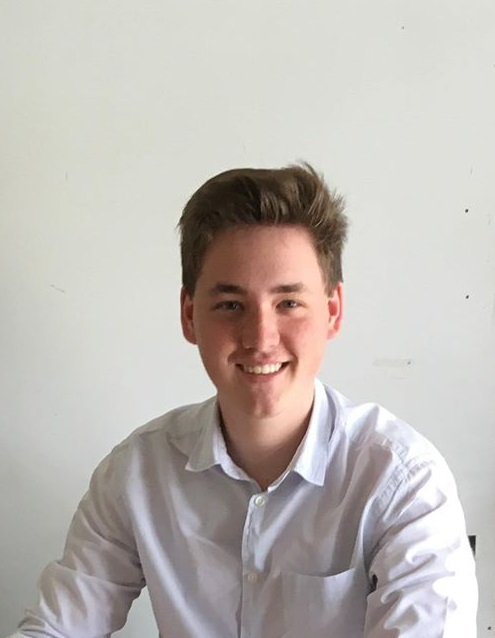
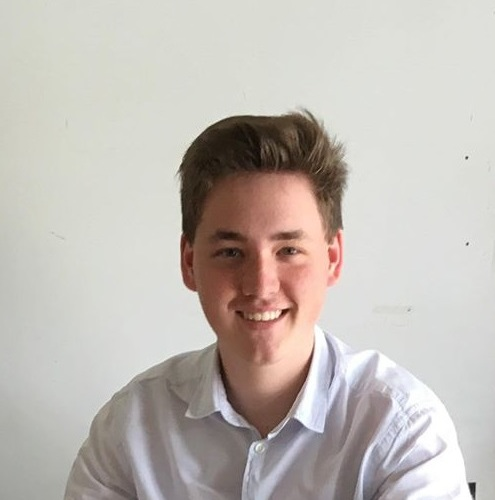
photos

Changed region(s): [[0.0, 0.39, 0.9697, 1.0], [0.3333, 0.21, 0.7273, 0.39], [0.6364, 0.99, 0.6667, 1.0]]

diff --git a/index.html b/index.html
@@ -66,7 +66,7 @@
         </section>
 
         <!-- Team-->
-        <section class="page-section bg-light" id="team">
+        <section class="page-section bg-light responsive" id="team">
             <div class="container">
                 <div class="text-center">
                     <h2 class="section-heading text-uppercase">De Host busters zelf</h2>
@@ -82,7 +82,7 @@
                     </div>
                     <div class="col-lg-4">
                         <div class="team-member">
-                            <img class="rounded-circle" src="assets/img/team/alessandro.jpg" alt="" />
+                            <img class="rounded-circle"  src="assets/img/team/alessandro.jpg" alt="" />
                             <h4>Alessandro Dierickx</h4>
                             <!--      <a class="btn btn-dark btn-social mx-2" href="#!"><i class="fab fa-twitter"></i></a><a class="btn btn-dark btn-social mx-2" href="#!"><i class="fab fa-facebook-f"></i></a><a class="btn btn-dark btn-social mx-2" href="#!"><i class="fab fa-linkedin-in"></i></a> -->                        </div>
                     </div>
@@ -94,7 +94,7 @@
                     </div>
                     <div class="col-lg-4">
                         <div class="team-member">
-                            <img class="rounded-circle" src="assets/img/team/kjento.jpg" alt="" />
+                            <img class="rounded-circle" src="assets/img/team/kjento.png" alt="" />
                             <h4>Kjento Lauwers</h4>
                             <!--      <a class="btn btn-dark btn-social mx-2" href="#!"><i class="fab fa-twitter"></i></a><a class="btn btn-dark btn-social mx-2" href="#!"><i class="fab fa-facebook-f"></i></a><a class="btn btn-dark btn-social mx-2" href="#!"><i class="fab fa-linkedin-in"></i></a> -->                        </div>
                     </div>
@@ -125,8 +125,9 @@
                 <div class="text-center">
                     <h2 class="section-heading text-uppercase">Contact</h2>
                     <h3 class="section-subheading text-muted">Voor vragen of opmerkingen kan u ons altijd bereiken via het volgende mailadres, wij contacteren u zo snel mogelijk</h3>
-                    <a class="button" href="mailto:'email hier'">mailadres...</a>
-                </form>
+                    <a class="btn btn-warning" href="mailto:Hostbusters2020@hotmail.com">Contact</a>
+
+                    </form>
             </div>
         </section>
         <!-- Footer-->

diff --git a/css/styles.css b/css/styles.css
@@ -707,6 +707,10 @@ pre code {
   flex: 0 0 66.6666666667%;
   max-width: 66.6666666667%;
 }
+.responsive {
+  width: 100%;
+  height: auto;
+}
 
 .col-9 {
   flex: 0 0 75%;
